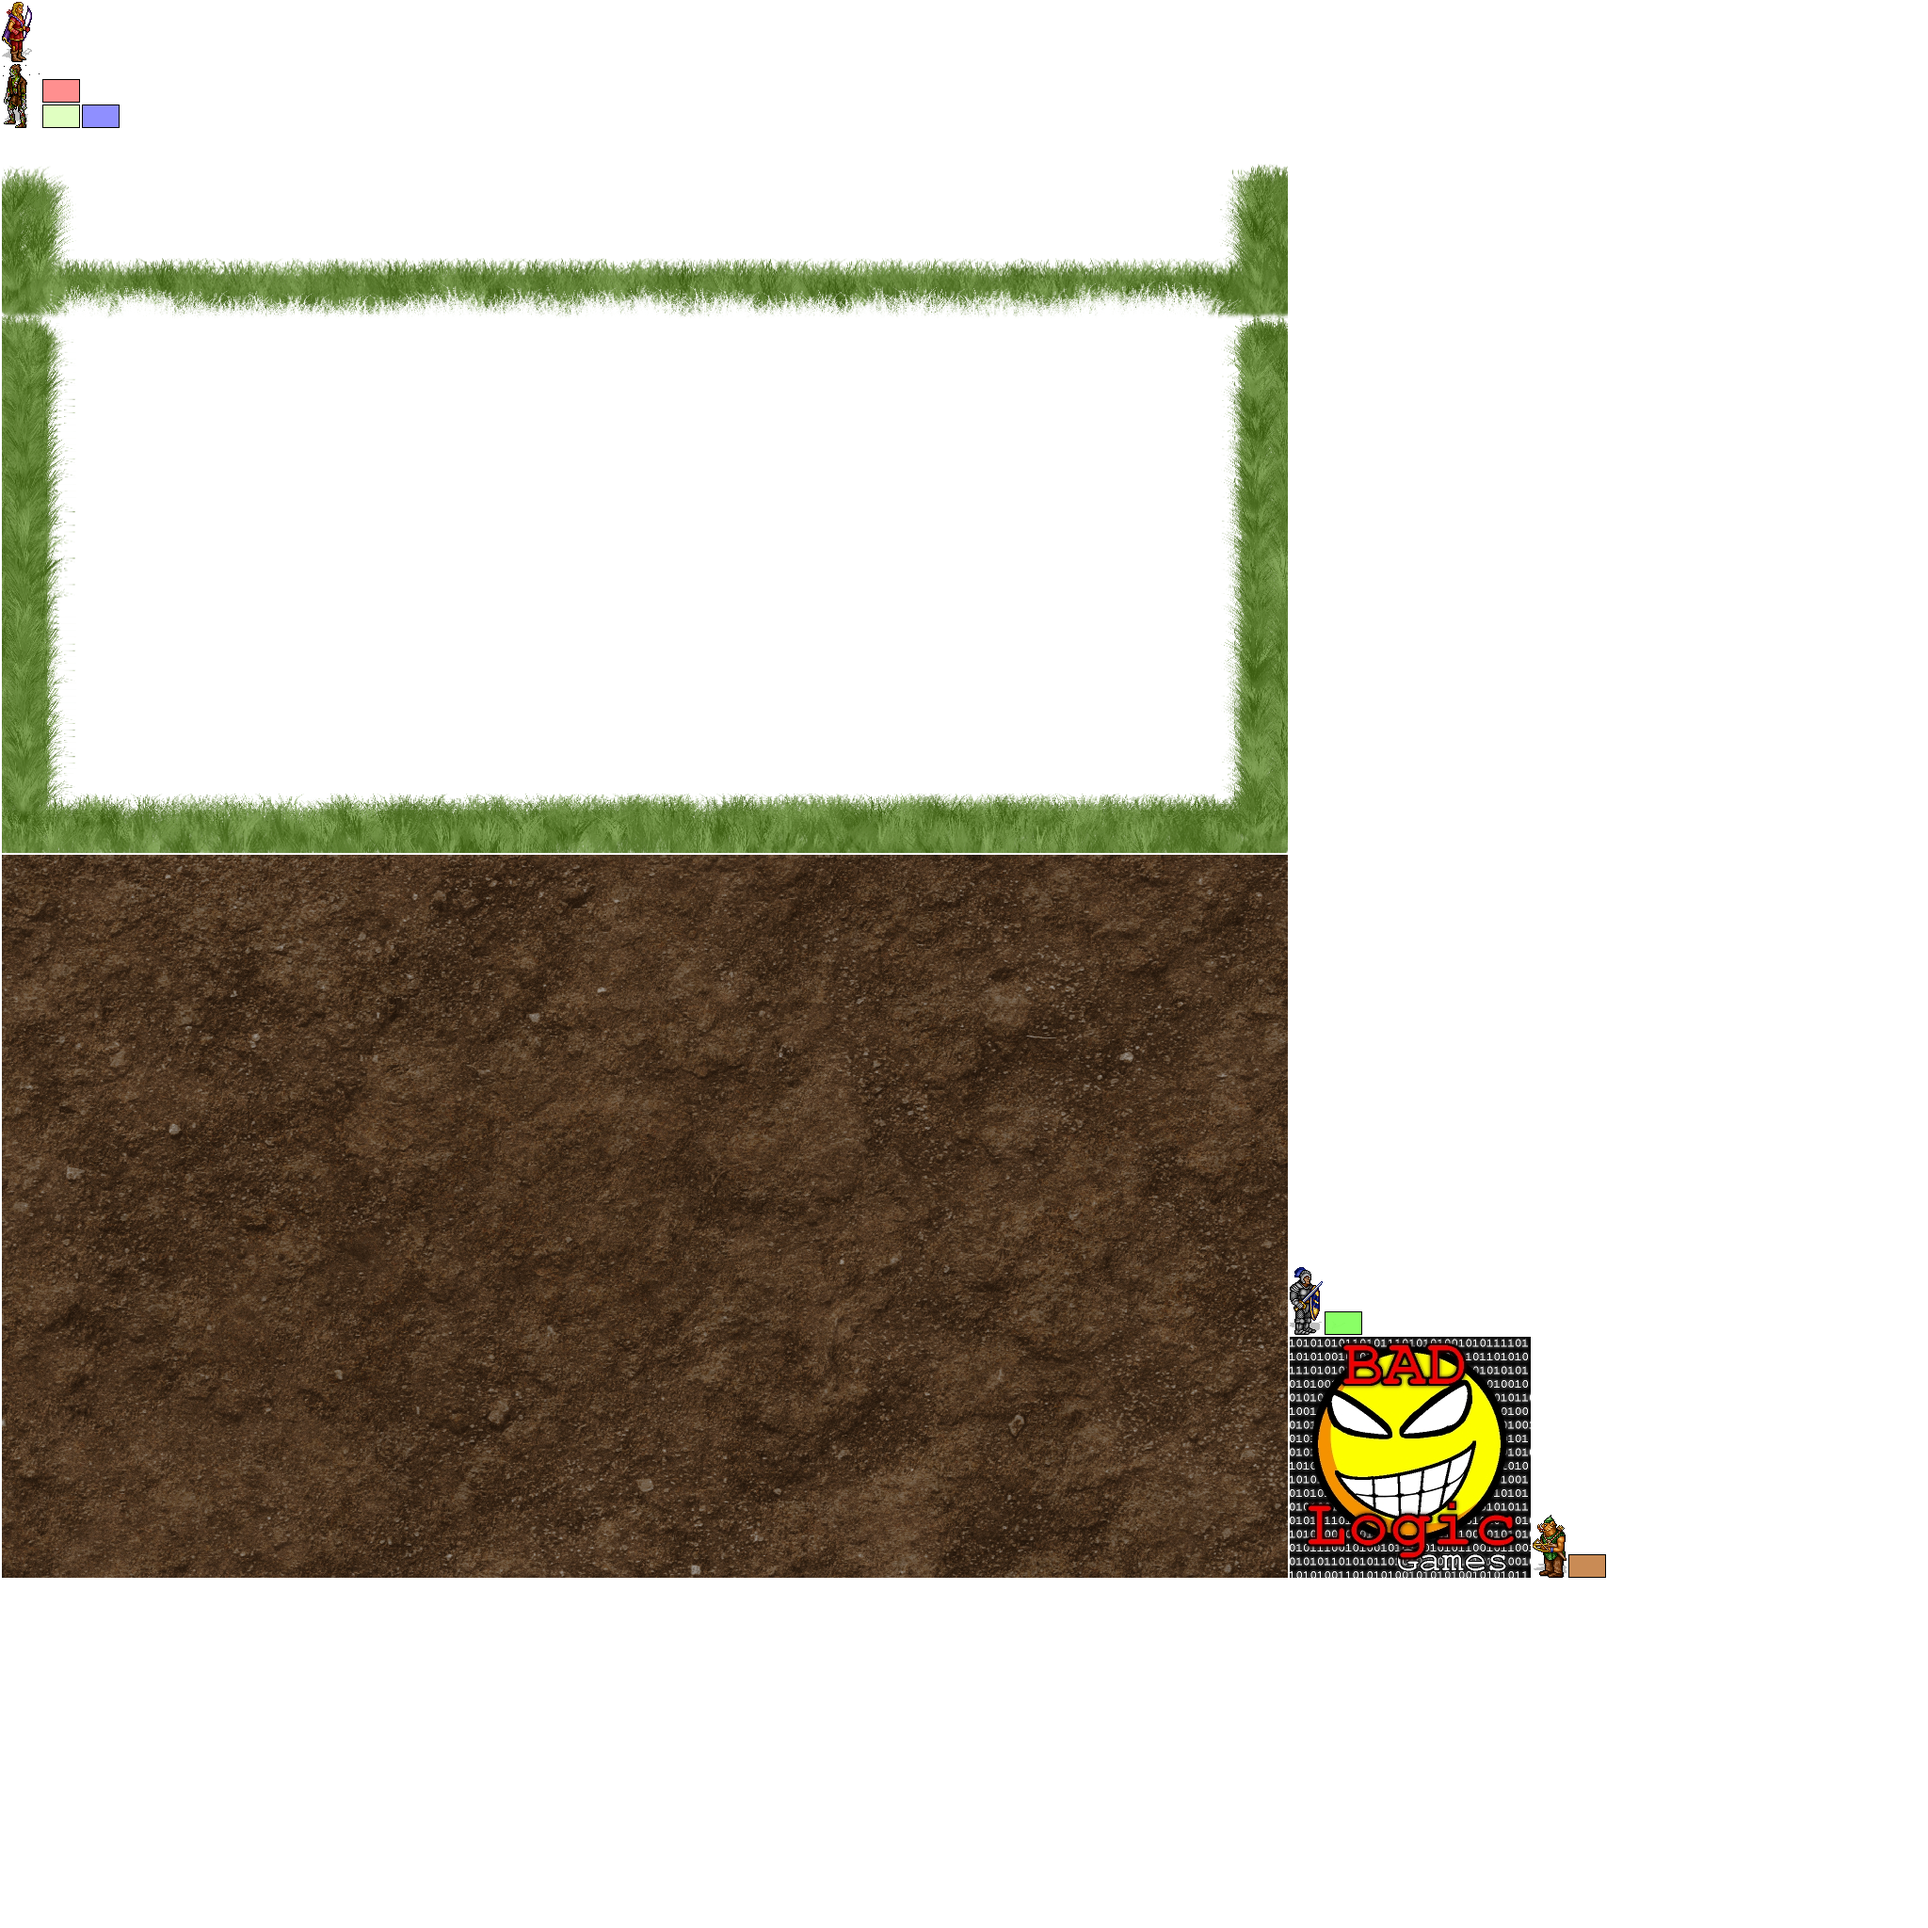
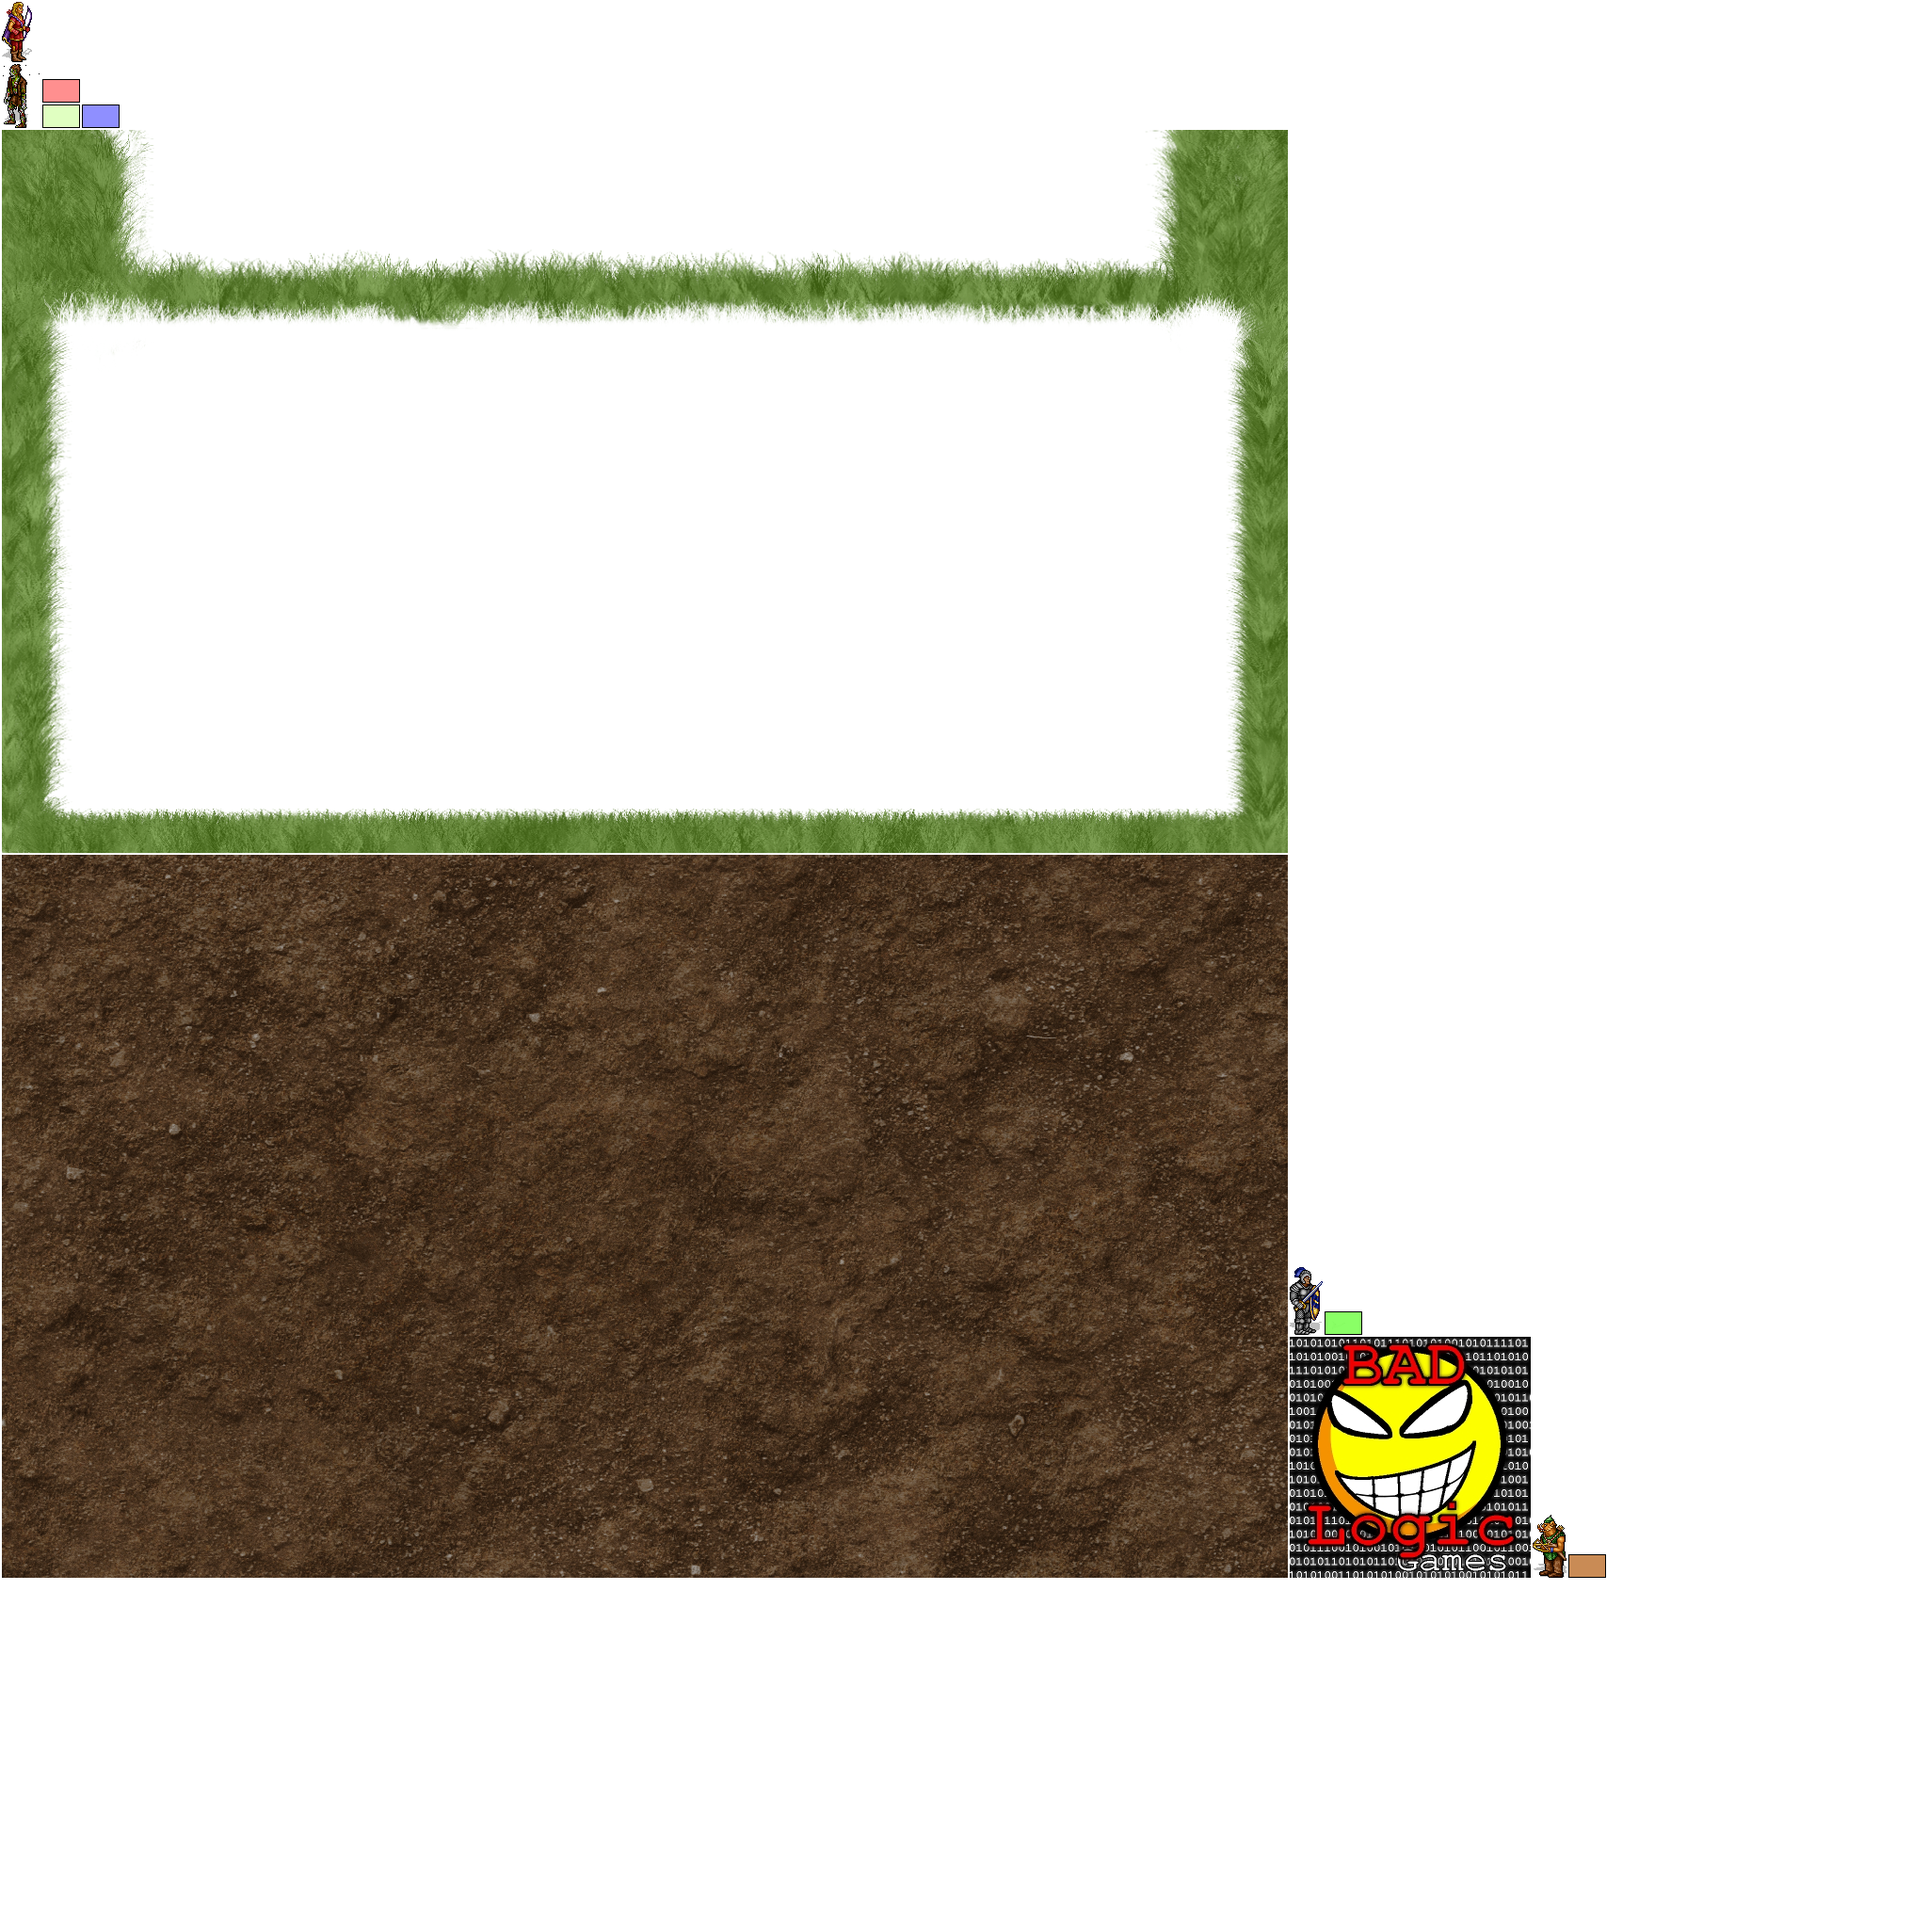
Change background

Changed region(s): [[0.0, 0.0625, 0.6875, 0.4375]]

diff --git a/core/src/com/d43/tbs/view/ChooseScreen.java b/core/src/com/d43/tbs/view/ChooseScreen.java
@@ -191,7 +191,7 @@ public class ChooseScreen implements Screen {
 		batch.begin();
 //			badLogic.draw(batch);
 			map.draw(batch);
-			batch.draw(this.textureAtlas.findRegion("grass_behind"), -Gdx.graphics.getWidth()/2, -Gdx.graphics.getHeight()/2);
+			batch.draw(this.textureAtlas.findRegion("choose_behind"), -Gdx.graphics.getWidth()/2, -Gdx.graphics.getHeight()/2);
 			
 			choosingZone.draw(batch);
 			
@@ -206,7 +206,7 @@ public class ChooseScreen implements Screen {
 //			for (int i = 0; i < enemies.size; i++)
 //				enemies.get(i).draw(batch);
 		
-			batch.draw(this.textureAtlas.findRegion("grass_above"), -Gdx.graphics.getWidth()/2, -Gdx.graphics.getHeight()/2);
+			batch.draw(this.textureAtlas.findRegion("choose_above"), -Gdx.graphics.getWidth()/2, -Gdx.graphics.getHeight()/2);
 		batch.end();
 		
 
